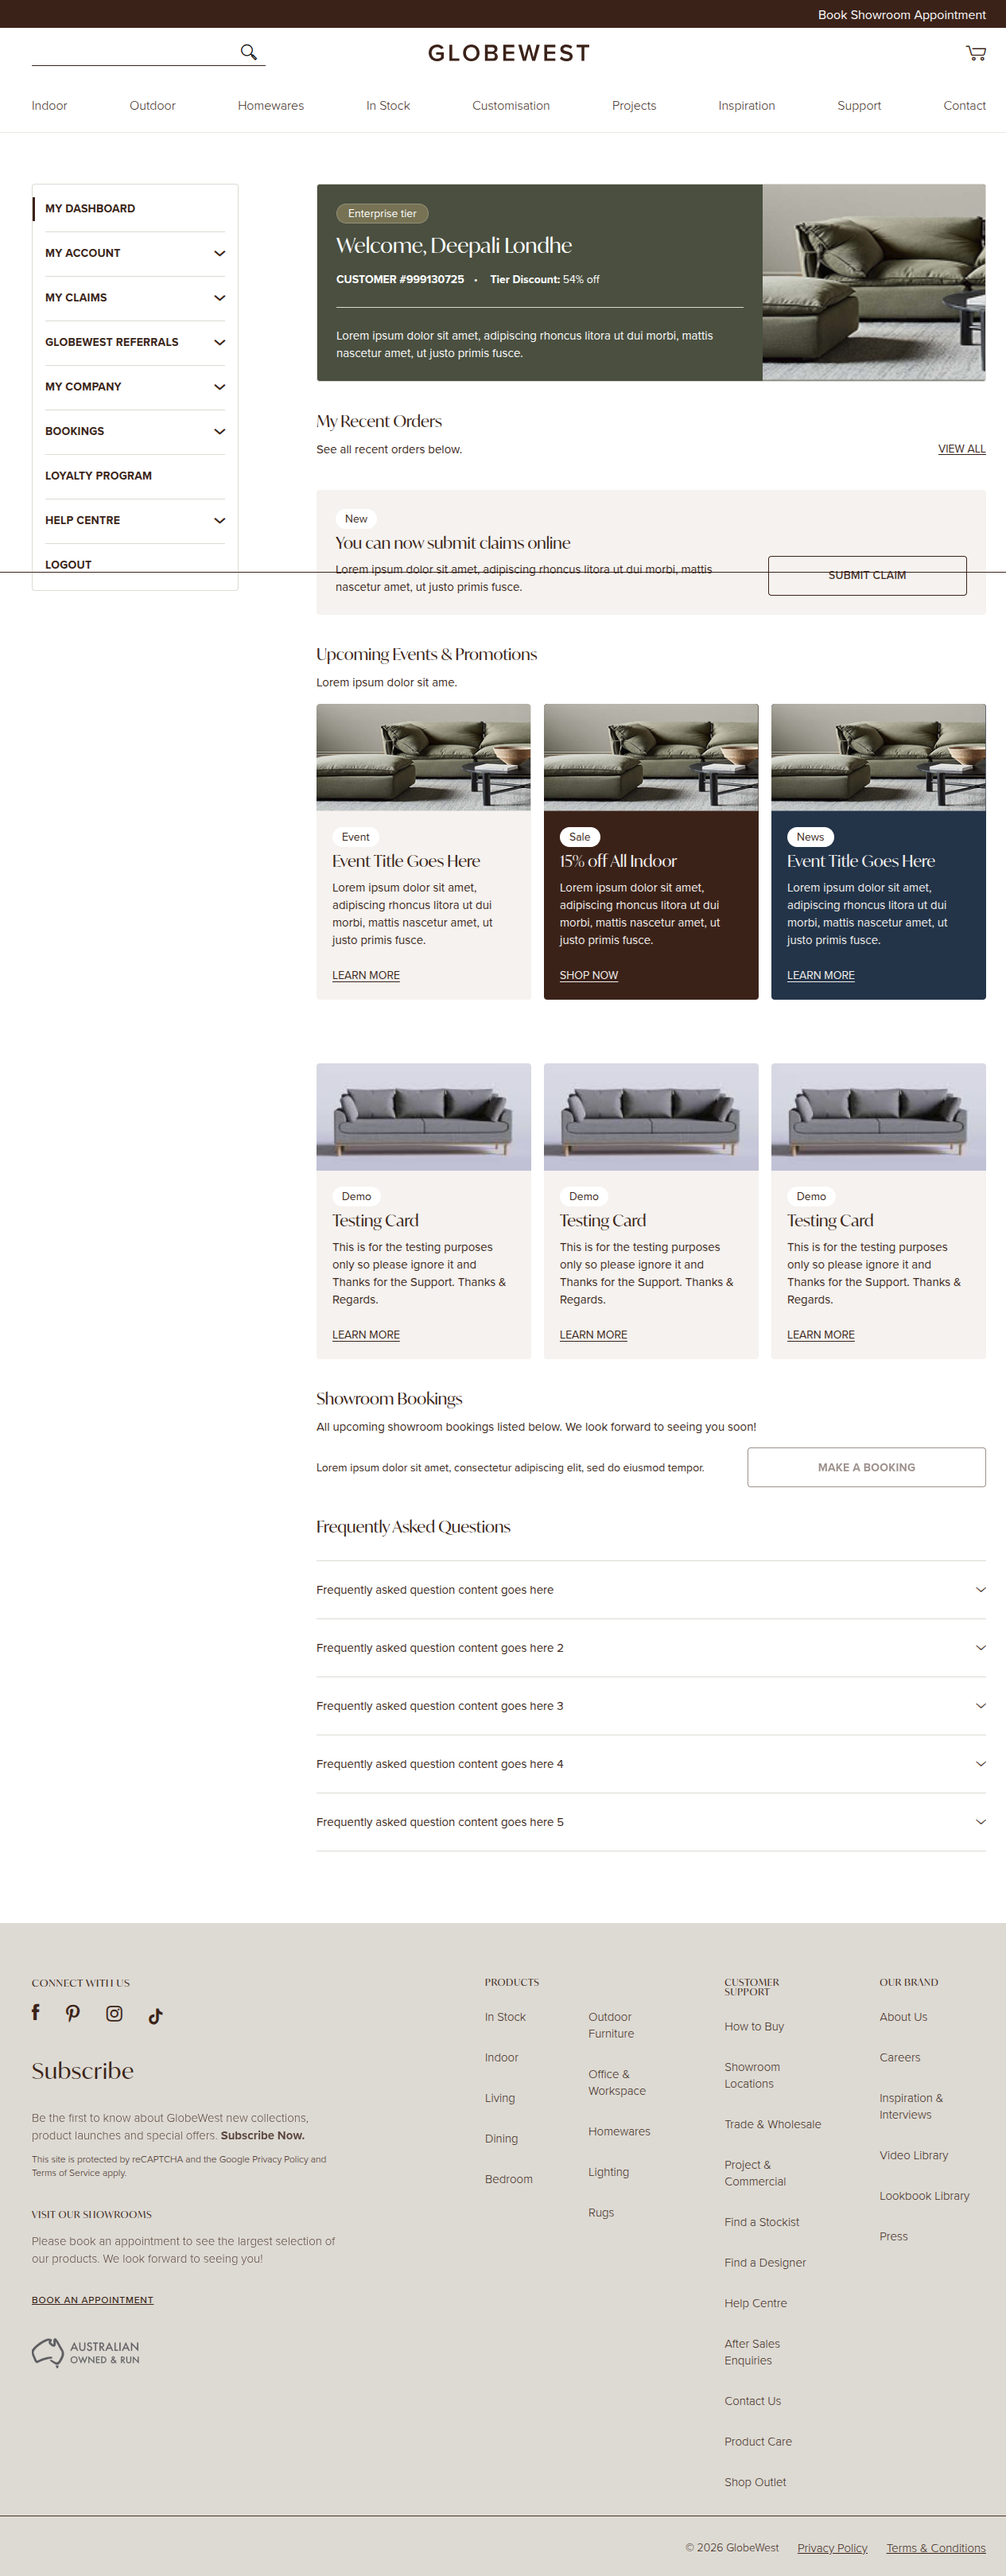
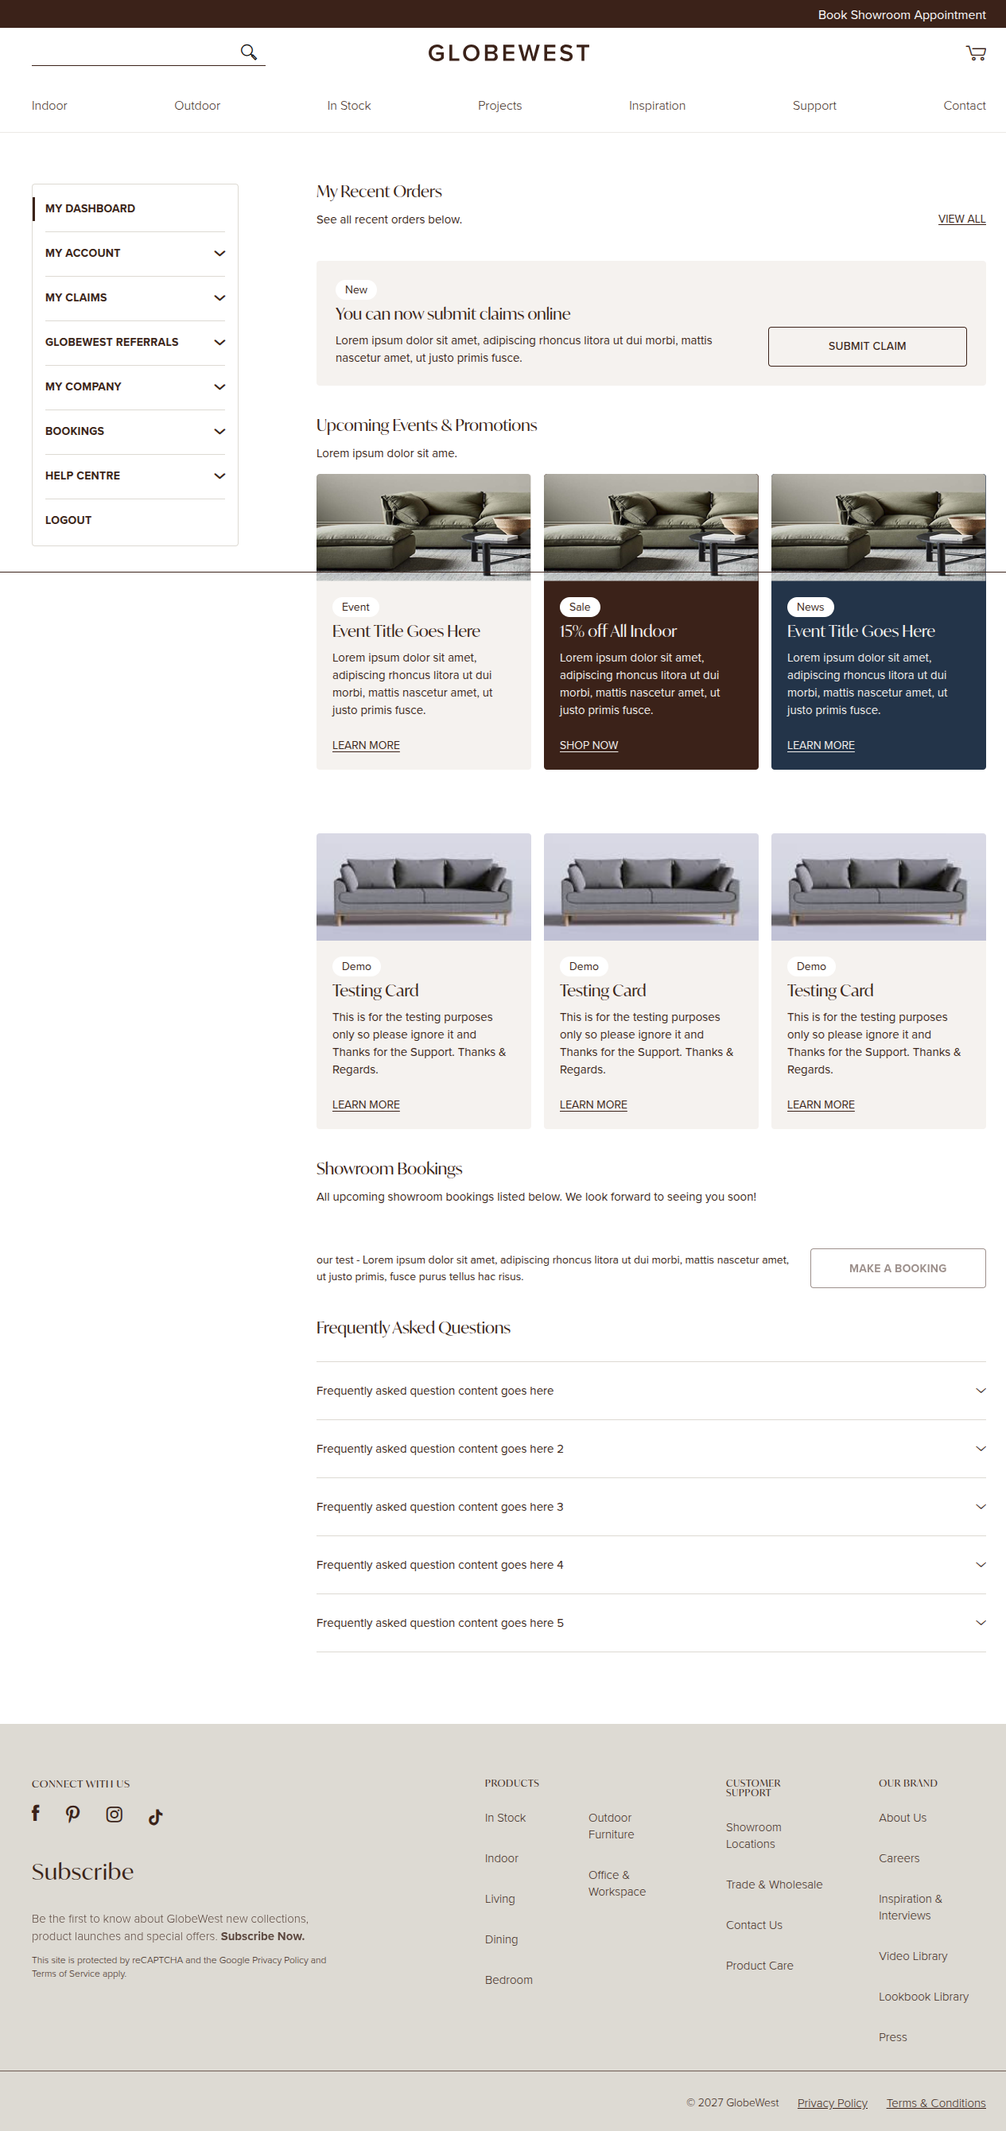
feat(claims): expand Claims Portal test suite to 40 TCs covering mobile views, FAQ mutex, tooltips, and file management

diff --git a/Sprint-3/Ticket_Claims_Portal/scripts/export_claims_portal_test_cases.js b/Sprint-3/Ticket_Claims_Portal/scripts/export_claims_portal_test_cases.js
@@ -447,6 +447,150 @@ const testCases = [
     "Status": "FAIL (Blocked by P0)",
     "Severity": "P1 - HIGH",
     "Figma Frame Reference": "Figma Frame 630 (Functional Specifications & Rules)"
+  },
+
+  // -------------------------------------------------------------------------
+  // SECTION 7: MOBILE RESPONSIVENESS & ADVANCED UI BEHAVIOR (FRAMES 630 & 631)
+  // -------------------------------------------------------------------------
+  {
+    "Test Case ID": "TC-GW-CLM-031",
+    "Module": "Mobile Responsiveness",
+    "Feature Scope": "Claims Listing Mobile Layout (375px)",
+    "Auth Matrix": "Authenticated (US Trade Customer)",
+    "Test Scenario / Title": "Verify Mobile View Layout for My Claims Listing (375px Viewport)",
+    "Preconditions": "User views claims portal on mobile device (375px viewport).",
+    "Test Steps": "1. Set viewport to 375x812\n2. Navigate to My Claims\n3. Inspect layout hierarchy, compact table, and navigation selector.",
+    "Expected Result (Spec)": "Renders mobile layout per Frame 2383-11615: top compact account selector [ My Claims ⌵ ], compact 5-column table (Order, Date, Total, Status, Actions), full-width search input above horizontal scrolling status tabs, full-width [ CREATE NEW CLAIM ] button.",
+    "Actual Result (mcstaging2 Live)": "BLOCKED: 302 Redirect loop to My Dashboard on mobile.",
+    "Status": "FAIL (Blocked by P0)",
+    "Severity": "P1 - HIGH",
+    "Figma Frame Reference": "Figma Frame 2383-11615 (mobile/my_account/My Claims)"
+  },
+  {
+    "Test Case ID": "TC-GW-CLM-032",
+    "Module": "Mobile Responsiveness",
+    "Feature Scope": "Create Claim Mobile Layout (375px)",
+    "Auth Matrix": "Authenticated (US Trade Customer)",
+    "Test Scenario / Title": "Verify Mobile View Layout for Create Claim Form (375px Viewport)",
+    "Preconditions": "User accesses claim creation on mobile device.",
+    "Test Steps": "1. Set viewport to 375x812\n2. Navigate to /claims/create\n3. Verify form fields, dropzone, and CTAs stacking.",
+    "Expected Result (Spec)": "Renders mobile form per Frame 2383-11131: single-column vertically stacked fields, full-width file dropzone, full-width stacked action buttons [ REVIEW ] and [ BACK ].",
+    "Actual Result (mcstaging2 Live)": "BLOCKED: Returns HTTP 404 Not Found.",
+    "Status": "FAIL (Blocked by P0)",
+    "Severity": "P1 - HIGH",
+    "Figma Frame Reference": "Figma Frame 2383-11131 (mobile/my_account/Create Claim)"
+  },
+  {
+    "Test Case ID": "TC-GW-CLM-033",
+    "Module": "FAQ Accordion Block",
+    "Feature Scope": "FAQ Mutex & Admin Rule",
+    "Auth Matrix": "Authenticated (US Trade Customer)",
+    "Test Scenario / Title": "Verify FAQ Block Mutex Behavior and Max 8 Accordions Rule",
+    "Preconditions": "User on My Claims or Create Claim page viewing FAQ block.",
+    "Test Steps": "1. Count rendered FAQ accordion items (max 8)\n2. Verify all accordions closed by default\n3. Click to open Accordion 1\n4. Click to open Accordion 2\n5. Verify Accordion 1 closes automatically.",
+    "Expected Result (Spec)": "Up to 8 FAQs rendered; closed by default; strict mutex behavior enforced (opening an accordion closes previously opened accordion) per Frame 630.",
+    "Actual Result (mcstaging2 Live)": "BLOCKED: Portal undeployed.",
+    "Status": "FAIL (Blocked by P0)",
+    "Severity": "P2 - MEDIUM",
+    "Figma Frame Reference": "Figma Frame 630 (Functional Specifications & Rules)"
+  },
+  {
+    "Test Case ID": "TC-GW-CLM-034",
+    "Module": "UI Table Behavior",
+    "Feature Scope": "Action Column Display Logic",
+    "Auth Matrix": "Authenticated (US Trade Customer)",
+    "Test Scenario / Title": "Verify Action Column Displays Direct 'VIEW' Link vs Dropdown (Frame 630 Rule)",
+    "Preconditions": "User viewing claims grid.",
+    "Test Steps": "1. Inspect row with only 'VIEW' action available\n2. Inspect row with multiple actions (e.g., View, Upload Documents, Cancel)\n3. Verify UI presentation.",
+    "Expected Result (Spec)": "Per Frame 630: If 'VIEW' is the only action, hide the dropdown wrapper and render 'VIEW' as a direct inline link. If multiple actions exist, house them inside an actions dropdown.",
+    "Actual Result (mcstaging2 Live)": "BLOCKED: Claims listing inaccessible.",
+    "Status": "FAIL (Blocked by P0)",
+    "Severity": "P2 - MEDIUM",
+    "Figma Frame Reference": "Figma Frame 630 (Functional Specifications & Rules)"
+  },
+  {
+    "Test Case ID": "TC-GW-CLM-035",
+    "Module": "UI Table Behavior",
+    "Feature Scope": "Order Number Hyperlink Navigation",
+    "Auth Matrix": "Authenticated (US Trade Customer)",
+    "Test Scenario / Title": "Verify Order Number is Clickable Hyperlink to Order Details",
+    "Preconditions": "User viewing claims list containing order reference numbers.",
+    "Test Steps": "1. Inspect Order Number cell (e.g. #CH03021)\n2. Verify element is an anchor tag with href pointing to /sales/order/view/order_id/...\n3. Click Order link and verify navigation.",
+    "Expected Result (Spec)": "Per Frame 630: Order Number is an interactive clickable hyperlink navigating directly to that order's detail page.",
+    "Actual Result (mcstaging2 Live)": "BLOCKED: Claims listing inaccessible.",
+    "Status": "FAIL (Blocked by P0)",
+    "Severity": "P1 - HIGH",
+    "Figma Frame Reference": "Figma Frame 630 (Functional Specifications & Rules)"
+  },
+  {
+    "Test Case ID": "TC-GW-CLM-036",
+    "Module": "UI Table Behavior",
+    "Feature Scope": "Pagination Controls & Item Counter",
+    "Auth Matrix": "Authenticated (US Trade Customer)",
+    "Test Scenario / Title": "Verify Pagination Controls and Items Counter per Frame 630",
+    "Preconditions": "User has more claims than the configured items-per-page limit.",
+    "Test Steps": "1. Inspect bottom of claims table\n2. Verify item count display on the left (e.g. 'X items')\n3. Verify page switcher on the right ([ 1 ] [ 2 ] [ > ])\n4. Click next page and verify grid update.",
+    "Expected Result (Spec)": "Renders pagination bar per Frame 630: counter on left, page switcher on right, backend-configurable items per page.",
+    "Actual Result (mcstaging2 Live)": "BLOCKED: Claims listing inaccessible.",
+    "Status": "FAIL (Blocked by P0)",
+    "Severity": "P2 - MEDIUM",
+    "Figma Frame Reference": "Figma Frame 630 (Functional Specifications & Rules)"
+  },
+  {
+    "Test Case ID": "TC-GW-CLM-037",
+    "Module": "Create Claim Form",
+    "Feature Scope": "Help Tooltips (🛈)",
+    "Auth Matrix": "Authenticated (US Trade Customer)",
+    "Test Scenario / Title": "Verify Interactive Help Tooltips on Form Fields per Frame 631",
+    "Preconditions": "User on Create Claim form.",
+    "Test Steps": "1. Locate tooltips on: 'Claim type', 'Product or Invoice No', 'Quantity', 'Preferred resolution', 'Description of issue'\n2. Hover/click each tooltip\n3. Verify contextual helper popover appears with admin-configured text.",
+    "Expected Result (Spec)": "All 5 specified fields feature interactive 🛈 tooltips with administrative copy per Frame 631 & Frame 2383-11003.",
+    "Actual Result (mcstaging2 Live)": "BLOCKED: Create Claim form returns 404.",
+    "Status": "FAIL (Blocked by P0)",
+    "Severity": "P2 - MEDIUM",
+    "Figma Frame Reference": "Figma Frame 631 (Create Claim Functional Specifications)"
+  },
+  {
+    "Test Case ID": "TC-GW-CLM-038",
+    "Module": "Create Claim Form",
+    "Feature Scope": "Media Dropzone & File Removal",
+    "Auth Matrix": "Authenticated (US Trade Customer)",
+    "Test Scenario / Title": "Verify Media Upload Thumbnail Rendering and File Deletion Action",
+    "Preconditions": "User uploads valid images (.jpg, .png) or video (.mp4, .mov) under 100MB.",
+    "Test Steps": "1. Upload 2 files to dropzone\n2. Verify thumbnail previews and filenames render\n3. Click [ DELETE ] button on file 1\n4. Verify file 1 is removed from upload queue while file 2 remains.",
+    "Expected Result (Spec)": "Thumbnails render dynamically alongside uploaded file names; [ DELETE ] action cleanly removes individual files prior to submission per Frame 2383-11003.",
+    "Actual Result (mcstaging2 Live)": "BLOCKED: Form undeployed (404).",
+    "Status": "FAIL (Blocked by P0)",
+    "Severity": "P1 - HIGH",
+    "Figma Frame Reference": "Figma Frame 2383-11003 (desktop/my_account/Create Claim)"
+  },
+  {
+    "Test Case ID": "TC-GW-CLM-039",
+    "Module": "Create Claim Form",
+    "Feature Scope": "Preferred Resolution Selection",
+    "Auth Matrix": "Authenticated (US Trade Customer)",
+    "Test Scenario / Title": "Verify Preferred Resolution Dropdown Options and Selection",
+    "Preconditions": "User filling Create Claim form.",
+    "Test Steps": "1. Click 'Preferred resolution' dropdown\n2. Inspect available options\n3. Select an option (e.g., Replacement, Credit, Repair)\n4. Verify selected option persists.",
+    "Expected Result (Spec)": "Dropdown provides standardized resolution options (Replacement, Credit Note, Repair, Refund) per Figma Frame 2383-11003.",
+    "Actual Result (mcstaging2 Live)": "BLOCKED: Form undeployed (404).",
+    "Status": "FAIL (Blocked by P0)",
+    "Severity": "P2 - MEDIUM",
+    "Figma Frame Reference": "Figma Frame 2383-11003 (desktop/my_account/Create Claim)"
+  },
+  {
+    "Test Case ID": "TC-GW-CLM-040",
+    "Module": "Create Claim Workflow",
+    "Feature Scope": "Review Summary & Form Progression",
+    "Auth Matrix": "Authenticated (US Trade Customer)",
+    "Test Scenario / Title": "Verify Form Progression: [ REVIEW ] Summary Step and [ BACK ] State Preservation",
+    "Preconditions": "User has filled all required claim form fields.",
+    "Test Steps": "1. Click [ REVIEW ] button\n2. Verify system displays Claim Summary review modal/page\n3. Click [ BACK ] button\n4. Verify user returns to edit form with all entered data, attached photos, and selections intact.",
+    "Expected Result (Spec)": "[ REVIEW ] navigates to summary review before lodging; [ BACK ] returns to form preserving all user input without data loss per Figma Frame 2383-11003 & Frame 631.",
+    "Actual Result (mcstaging2 Live)": "BLOCKED: Form undeployed (404).",
+    "Status": "FAIL (Blocked by P0)",
+    "Severity": "P1 - HIGH",
+    "Figma Frame Reference": "Figma Frame 631 & Frame 2383-11003"
   }
 ];
 

diff --git a/Sprint-3/SPRINT_3_MASTER_CATALOG.md b/Sprint-3/SPRINT_3_MASTER_CATALOG.md
@@ -29,7 +29,7 @@
 | 12 | **Blog Index Page** | `/blog` | Blog Index Spec | **37 TCs** (.xlsx & .csv) | AUDITED & TESTED | 🔴 Defect: Pagination styling & category filtering |
 | 13 | **Blog Article Template** | `/blog/sample-article` | Blog Detail Spec | **35 TCs** (.xlsx & .csv) | AUDITED & TESTED | 🔴 Defect: Social share links, related articles layout |
 | 14 | **Store Locator** | `/locator` | AU Baseline & US Figma | **35 TCs** (.xlsx & .csv) | AUDITED & RETESTED | 🟢 Google Maps API Fixed (Map canvas, satellite view, zoom, pins, keyboard accessibility & city/ZIP auto-navigation); 🟡 Remaining: Regional Copy Leaks, Footer Badge & WCAG Form Labels |
-| 15 | **Claims Portal** | `/customer/account/` (`/gw_sales/claim/`) | Frames 630 & 631, `desktop/my_account/My Claims`, `mobile/my_account/My Claims`, `Create Claim` | Ready for QA | PREPARED & AUDITED | 🔴 Live US Staging Banner has dead link (`href="#"`), backend module redirects to dashboard |
+| 15 | **Claims Portal** | `/customer/account/` (`/gw_sales/claim/`) | Frames 630 & 631, `desktop/my_account/My Claims`, `mobile/my_account/My Claims`, `Create Claim` | **40 TCs** (.xlsx & .csv) | AUDITED & TESTED | 🔴 P0 Blocker: Live US Staging Banner has dead link (`href="#"`), backend module redirects to dashboard |
 | 16 | **Enable Public Browsing Mode** | Storefront Public Views | Public Browsing Architecture | **21 TCs** (.xlsx & .csv) | AUDITED & TESTED | 🟢 Pass / Verified Public Price Masking & Guest Access |
 | 17 | **Trade Pricing Toggle** | Header Utility & PLP/PDP/Search | Header Pricing Switcher Spec | **21 TCs** (.xlsx & .csv) | AUDITED & TESTED | 🟢 Pass / Verified Trade vs MSRP Modes & Dual Pricing |
 

diff --git a/Sprint-3/Ticket_Claims_Portal/CLAIMS_PORTAL_DEFECT_AUDIT_REPORT.md b/Sprint-3/Ticket_Claims_Portal/CLAIMS_PORTAL_DEFECT_AUDIT_REPORT.md
@@ -78,7 +78,7 @@ During live testing with US Trade credentials (`deepali.londhe@overdose.digital`
 
 ## 4. Test Case Deliverables Summary
 
-A comprehensive test suite of **30 test cases** has been generated and exported to the ticket directory covering all client requirements:
+A comprehensive test suite of **40 test cases** has been generated and exported to the ticket directory covering all client requirements, mobile responsive layouts, FAQ mutex rules, UI behaviors, and NetSuite status mappings:
 - 📊 **Excel Spreadsheet**: `Sprint-3/Ticket_Claims_Portal/Claims_Portal_Test_Cases.xlsx`
 - 📄 **CSV Export**: `Sprint-3/Ticket_Claims_Portal/Claims_Portal_Test_Cases.csv`
 
